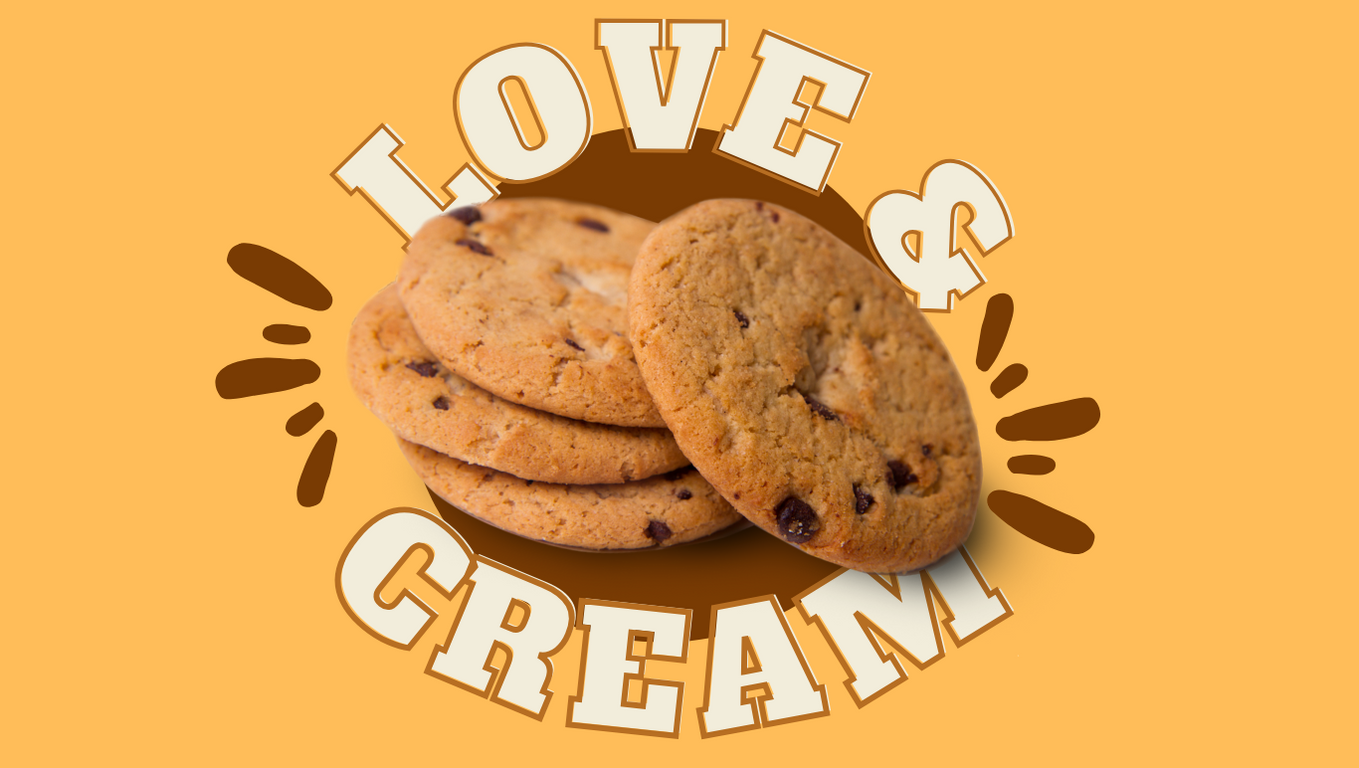
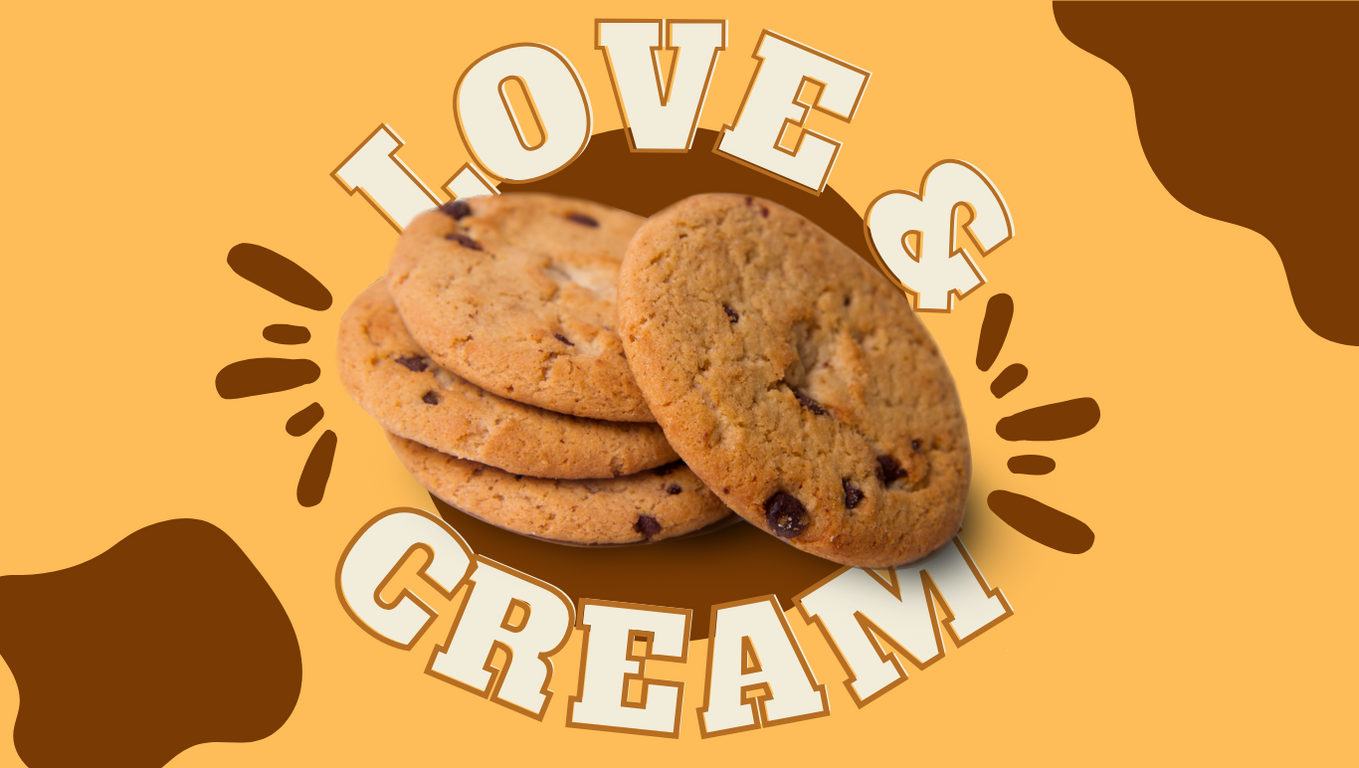
Add files via upload

Changed region(s): [[0.2472, 0.25, 0.7417, 0.7812], [0.7726, 0.0, 1.0, 0.4688], [0.0, 0.6562, 0.2472, 1.0]]

diff --git a/styles.css b/styles.css
@@ -2,10 +2,9 @@
     --branco-principal: #FFFFFF;
     --cinza-secundario: #C0C0C0;
     --botao-azul: #167BF7;
-    --cor-de-fundo: #ffbd59;
+    --cor-de-fundo: #00030C;
     --fonte-principal: 'Inter';
     --botao-azul-efeito: #3c92fa;
-    --marrom-cookie: #C57236;
 }
 
 body {
@@ -22,11 +21,15 @@ body {
 }
 
 .principal {
-    
+    background-image: url("Home.png");
     background-repeat: no-repeat;
     background-size: contain;
     align-items: center;
     text-align: center;
+    display: table;
+  width: 100%;
+  height: 100vh;
+  padding: 100px 0;
 }
 
 .container {
@@ -46,6 +49,15 @@ body {
 }
 
 .botao_secundario {
+    background-image: url("About.png");
+    background-repeat: no-repeat;
+    background-size: contain;
+    align-items: center;
+    text-align: center;
+    display: table;
+  width: 100%;
+  height: 100vh;
+  padding: 100px 0;
     background-color: transparent;
     border: 2px solid var(--branco-principal)
 }
@@ -75,7 +87,6 @@ body {
 .secundario {
     align-items: center;
     margin: 0 10em;
-    background-color: var(--marrom-cookie);
 }
 
 .descricao__titulo {

diff --git a/index.html b/index.html
@@ -15,15 +15,11 @@
     <section class="principal container">
         <div class="container__caixa">
         </div>
-        <img src="Home.png">
     </section>
 
     <section class="container secundario">
-        <img src="img/Plataformas.png" alt="Um monitor e um celular com a alura plus aberta" class="secundario__imagem">
-        <div class="container__descricao">
-            <h2 class="descricao__titulo">Assista do seu jeito</h2>
-            <p class="descricao__texto">Aproveite a tela grande da TV ou assista no tablet, laptop, celular e outros
-                aparelhos. Nossa seleção de cursos não para de crescer.</p>
+        <div class="container__descricao"> 
+
         </div>
     </section>
 
